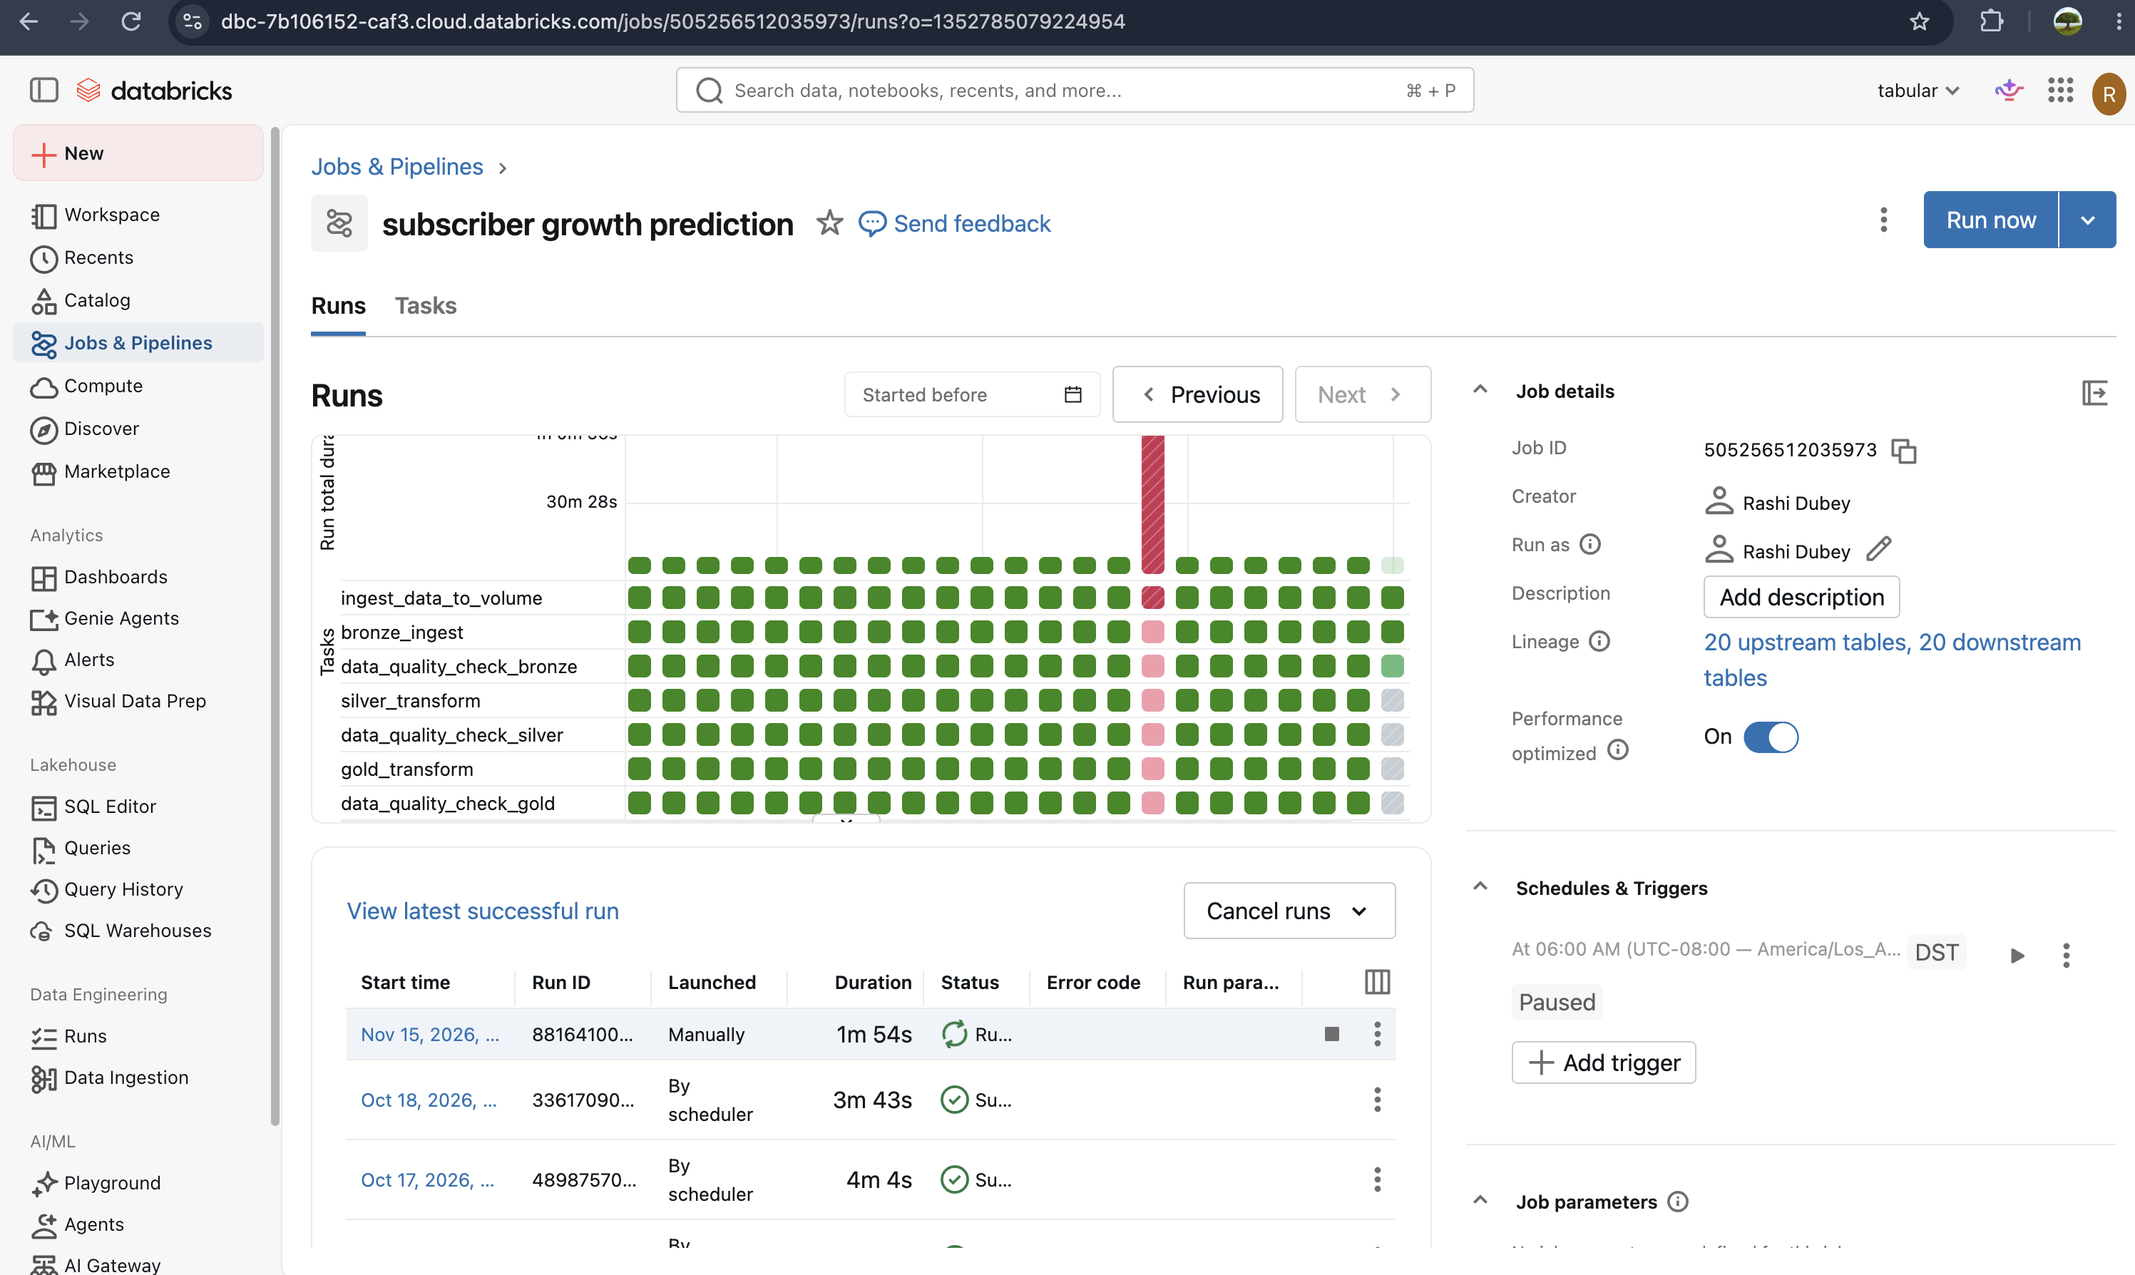
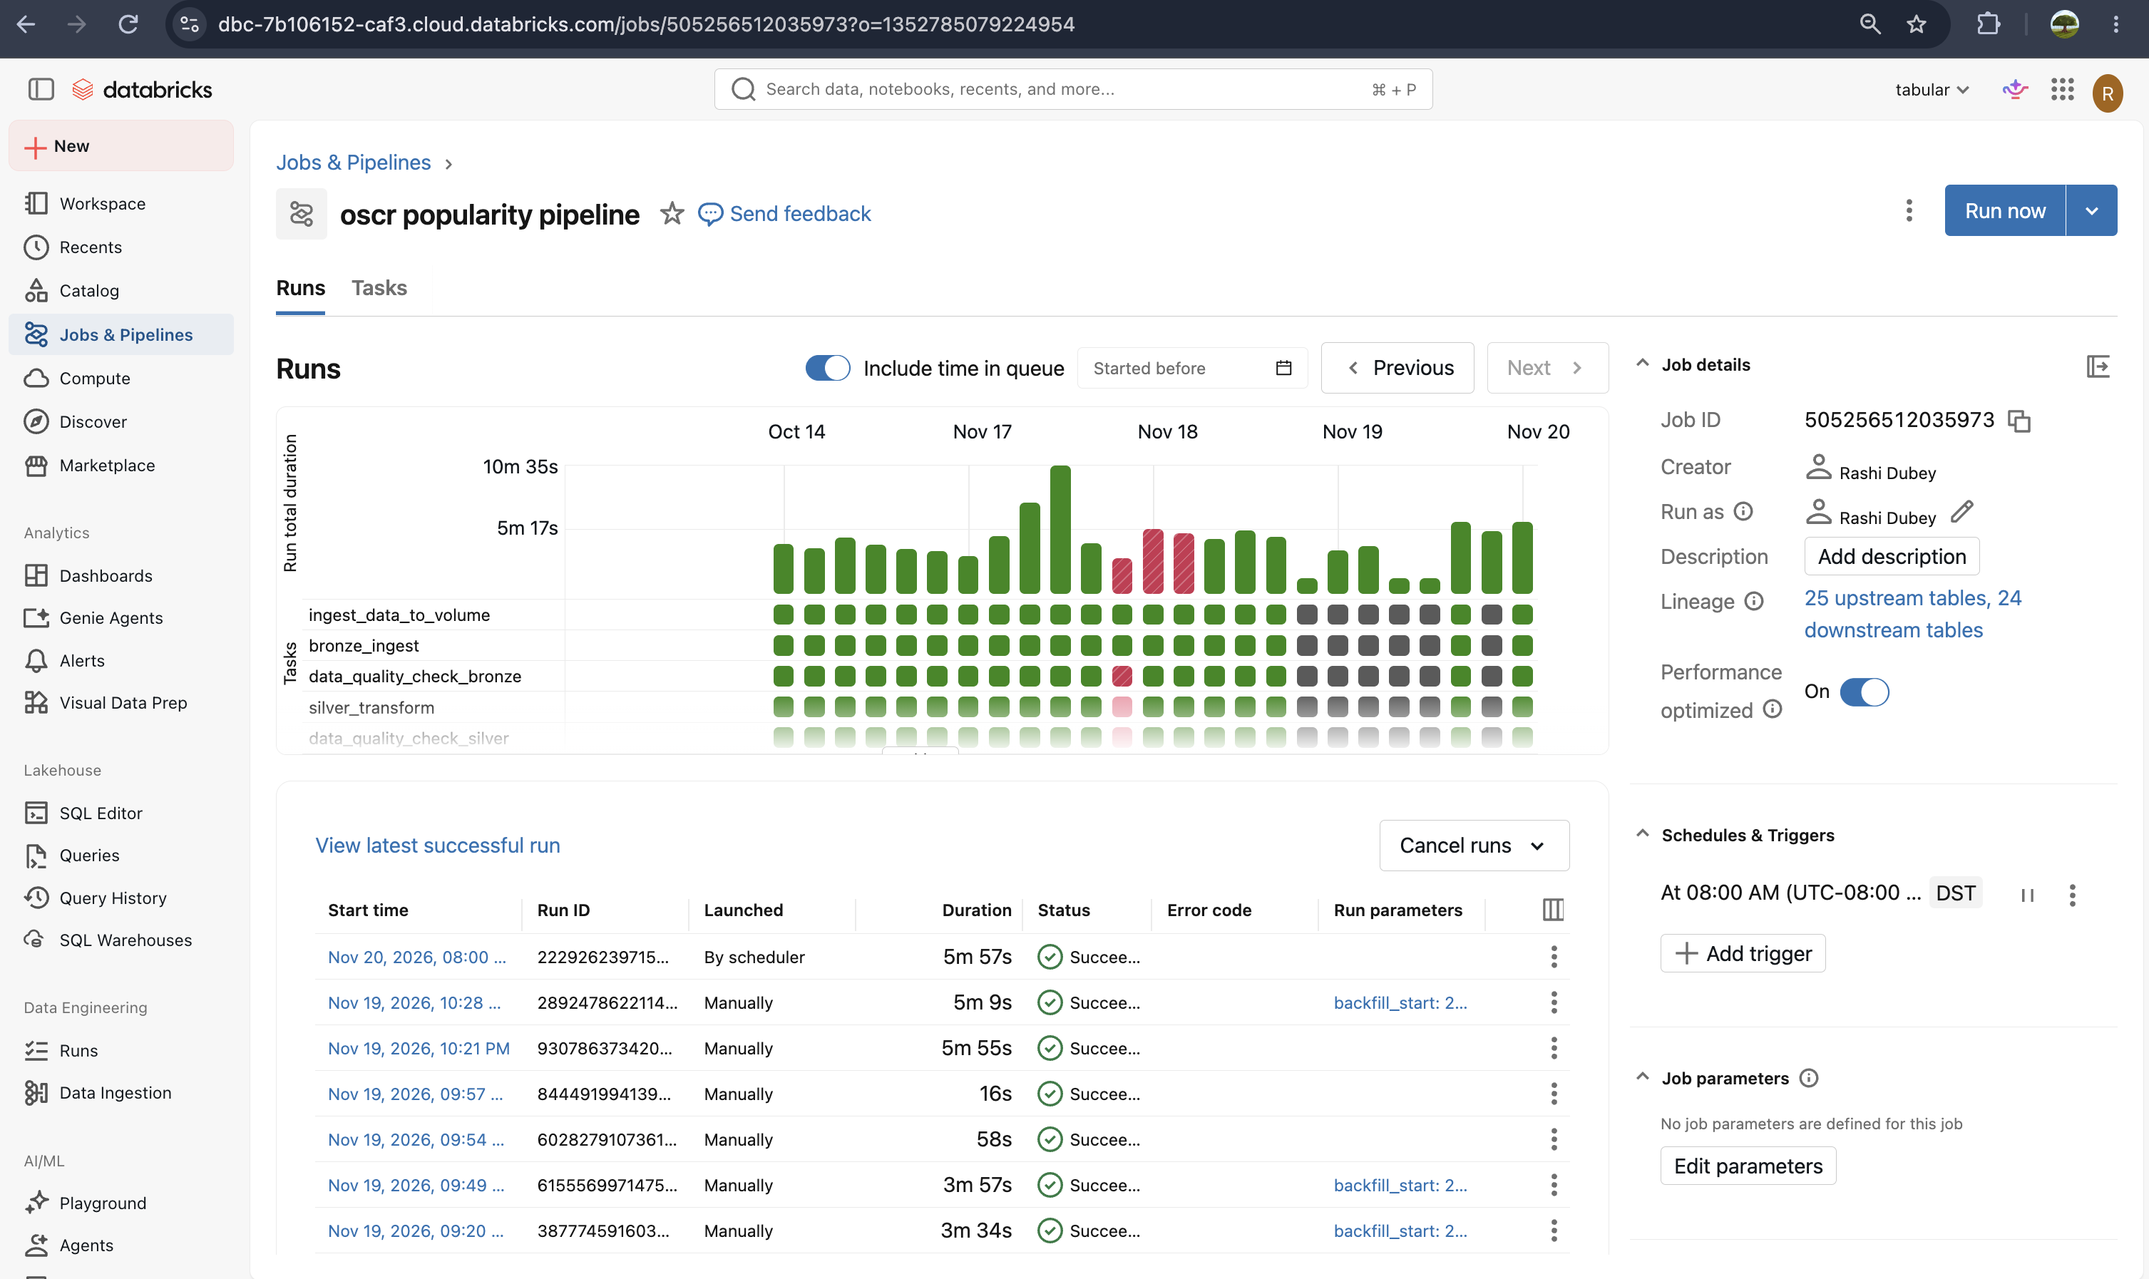
Update README, diagrams and screenshots

diff --git a/README.md b/README.md
@@ -1,134 +1,189 @@
-# OSCR (Online Streaming Content Radar): Streaming Content Popularity & Sentiment Pipeline
+# OSCR (Online Streaming Content Radar)
 
-## what am I trying to achieve
+A daily pipeline that tracks Netflix and Disney+ popularity, makes a rise / hold / fall call for each brand, and grades its own calls a week later.
 
-Track Netflix and Disney+ popularity from three angles that don't normally
-talk to each other: app-store rank, Wall Street sentiment on the parent
-stock, and what viewers actually write in reviews and news. The first two
-are numbers you can average into a score. The third is free text, and
-that's where the RAG layer comes in. Data comes from Finnhub, Financial
-Modeling Prep, TMDB, and the Apple App Store RSS feed. The output is a near-term popularity-direction call per brand (rise / hold / fall): the numbers give the direction, and the RAG layer gives a grounded why from reviews and news.
+Example: Netflix's app rank has slid for a week, analysts are cooling, and reviewers complain about a new season. The agent calls `fall` and cites those reviews. Seven days later the scorecard checks whether the rank really fell.
 
-Runs entirely on Databricks: Unity Catalog, Delta Lake, Mosaic AI Vector
-Search. No Docker, nothing to run locally end-to-end.
+**Who it's for:** a streaming analyst deciding which brand's audience attention is shifting and where to dig deeper. It is not a trading signal.
+
+Runs entirely on Databricks (Unity Catalog, Delta Lake, Mosaic AI Vector Search). Nothing to run locally.
+
+## Data sources and what each adds
+
+| Source | Kind | Lands in | Answers |
+|---|---|---|---|
+| Apple App Store RSS (US) | number | `app_rank_history`, `brand_popularity` | What changed: the rank we predict and grade |
+| Finnhub analyst recommendations | number | `symbol_analyst_sentiment` | What analysts think |
+| FMP analyst estimates | number | `symbol_forward_estimates` | Forward revenue and EPS expectations |
+| Finnhub company news | text | `rag_text_corpus` | Why: market and news context |
+| TMDB show reviews | text | `rag_text_corpus` | Why: how viewers react to shows |
+
+Numbers say what moved. Text, retrieved with RAG, says why.
 
 ## Architecture
 
-```
-  STRUCTURED SIDE                           UNSTRUCTURED SIDE
-  Finnhub, FMP, App Store RSS               TMDB reviews, Finnhub news
-              |                                          |
-              v                                          v
- +--------------------------+               +--------------------------+
- | BRONZE                   |               | BRONZE                   |
- | raw, append-only,        |               | raw review/news text,    |
- | one table per endpoint   |               | untouched                |
- +------------+-------------+               +------------+-------------+
-              |                                          |
-              v                                          v
- +--------------------------+               +--------------------------+
- | SILVER                   |               | SILVER                   |
- | dedupe, alias-match,     |               | dedupe, typed, cleaned   |
- | MERGE (current state)    |               | pass-through             |
- +------------+-------------+               +------------+-------------+
-              |                                          |
-              v                                          v
- +--------------------------+               +--------------------------+
- | GOLD                     |               | GOLD: rag_text_corpus    |
- | symbol_analyst_sentiment |               | (doc_id, text_content)   |
- | symbol_forward_estimates |               +------------+-------------+
- | app_rankings_by_brand    |                            |
- | app_rank_history         |                            v
- | show_engagement          |               +--------------------------+
- +------------+-------------+               | VECTOR SEARCH INDEX      |
-              |                             | rag_text_corpus_index    |
-              v                             | hybrid, Triggered sync   |
- +--------------------------+               +------------+-------------+
- | NUMERIC SIGNALS          |                            |
- | rank, sentiment score,   |                            v
- | growth, ratings          |               +--------------------------+
- +------------+-------------+               | AGENT / LLM              |
-              |                             | hybrid search -> prompt  |
-              |                             | -> grounded answer       |
-              |                             +------------+-------------+
-              +------------------------------------------+
-                                   |
-                                   v
-           one popularity picture: what changed (numbers)
-           and why (text)
+```mermaid
+flowchart LR
+  subgraph SRC["Sources"]
+    A1["App Store RSS"]
+    A2["Finnhub recs"]
+    A3["FMP estimates"]
+    A4["TMDB reviews"]
+    A5["Finnhub news"]
+  end
+  SRC --> B["Bronze: raw + _fetched_at"]
+  B --> S["Silver: deduped, typed"]
+  S --> GN["Gold numbers: brand_popularity, sentiment, estimates"]
+  S --> GT["Gold text: rag_text_corpus"]
+  GT --> V["Vector Search index"]
+  GN --> AG["Agent (05)"]
+  V --> AG
+  AG --> P[("predictions")]
+  P --> SC["Scorecard (06)"]
+  GN --> SC
 ```
 
-![OSCR architecture](docs/architecture.png)
+Gold tables and how they connect:
+
+```mermaid
+erDiagram
+  brand_popularity {
+    string brand PK
+    date d PK
+    double popularity
+  }
+  move_cutoffs {
+    int horizon_days
+    double fall_below
+    double rise_above
+  }
+  predictions {
+    string symbol PK
+    date prediction_date PK
+    string source PK
+    string variant PK
+    string call
+    string confidence
+    array retrieved_doc_ids
+  }
+  prediction_skips {
+    string symbol
+    date prediction_date
+    string variant
+  }
+  prediction_scorecard {
+    string brand
+    date prediction_date
+    string call
+    string actual_move
+    int hit
+  }
+  rag_text_corpus {
+    string doc_id PK
+    string text_content
+    date published_date
+  }
+  brand_popularity ||--o{ prediction_scorecard : "outcome 7 days later"
+  move_cutoffs ||--o{ prediction_scorecard : "defines rise/hold/fall"
+  predictions ||--|| prediction_scorecard : "one row per call"
+  predictions ||--o{ prediction_skips : "unparseable replies"
+  predictions }o--o{ rag_text_corpus : "retrieved_doc_ids"
+```
 
 ## Orchestration
 
-The whole medallion pipeline runs as a scheduled Databricks Workflow
-(`oscr popularity pipeline`), with a data-quality check wired in as a
-gate after every layer, so a bad batch stops the run before it reaches the
-next stage:
+One Databricks Workflow (`oscr popularity pipeline`) runs daily at 08:00 America/Los_Angeles. A data-quality gate sits after every layer, so a bad batch stops before the next stage.
 
-`ingest -> bronze -> DQ(bronze) -> silver -> DQ(silver) -> gold -> DQ(gold)`
+```
+ingest -> bronze -> DQ -> silver -> DQ -> gold -> DQ -> index sync -> agent -> scorecard
+```
 
-It is scheduled to run daily, and every layer is idempotent, so a rerun reconciles the data instead of duplicating it. The RAG corpus, vector index, and prediction agent all run end to end (the agent writes rise/hold/fall popularity calls to `predictions`). The schedule is currently paused; folding the agent in as the final task, so a fresh prediction lands on every run, is the remaining step.
-
-![Workflow DAG](screenshots/workflow_dag.png)
+The gates check row counts, nulls, duplicate keys, empty tables, and freshness: the newest `_fetched_at` in every source must be under 36 hours old. The fetch step fails the run if a required API call fails, and a failed run sends an email.
 
 ![Workflow run history](screenshots/workflow_run_history.png)
 
+Run history. Red cells are failed runs, grey cells are tasks that did not run (for example, runs started by hand for a single task).
+
 ## Idempotency
 
-Every layer is safe to rerun, and each uses the mechanism that fits it
-rather than one blanket rule.
+Every layer is safe to rerun, and each uses the strategy that fits it.
 
-- Bronze lands raw data with an `_ingested_at` timestamp. The recommendation
-  and estimate feeds append; the news, review, registry and provider feeds
-  do a full refresh (drop and reload), because the source always returns the
-  full current set. Nothing downstream depends on bronze being deduped.
-- Silver is where current state is enforced: it keeps the latest row per key
-  by `_ingested_at` (a window plus `row_number` filter) and overwrites, so it
-  reflects current state no matter how many times bronze ran. The App Store
-  table uses a `MERGE` upsert instead, keyed on app id and storefront.
-- Gold overwrites its aggregate tables. The one time-series table,
-  `app_rank_history`, deletes the day being written before appending it, so
-  backfilling a day twice never doubles it.
+| Layer | Rerun strategy |
+|---|---|
+| Bronze | Recommendations and estimates append. News, reviews, registry, providers and App Store do a full refresh, but an empty load keeps the old table and fails the task. |
+| Silver | Latest row per key, overwrite. App Store uses MERGE on app id and storefront. |
+| Gold | Aggregates overwrite. `app_rank_history` deletes the day, then inserts. |
+| Predictions | Delete then insert on (symbol, date, source, variant). |
 
-Rerunning the same window and watching the row counts hold steady is the
-practical test of all of this, and they do.
+## The agent
 
-## why RAG is here
+[`05_agent_predictions.py`](src/05_agent_predictions.py) reads the numeric signals, retrieves the most relevant reviews and news, and asks an LLM for a rise / hold / fall call on each brand's 7-day App Store popularity change. The call is written to `predictions`, a real state change in the pipeline.
 
-The numeric gold tables already answer "what changed": rank moved, analyst
-sentiment shifted, revenue grew. RAG exists purely to answer "why," which
-lives in review and news text that can't be averaged into a score.
-`rag_text_corpus` holds that text, a Vector Search index embeds it, and at
-question time hybrid search pulls the most relevant chunks for an LLM to
-read and answer from, grounded in real reviews instead of a guess. It's
-additive: if the index or serving endpoint goes down, the rest of the
-pipeline doesn't notice.
+- Popularity is `101 - rank` in the US App Store, flagship app only. India and Germany are excluded because they drop in and out of the feed.
+- "Hold" is defined once, in `move_cutoffs`: fall below -8.33, rise above +5.0. These are the terciles of 84 pooled 7-day changes (Aug 29 to Oct 11), frozen before any scoring. The agent prompt and the scorecard both read this table.
+- Every input is limited to rows dated on or before the prediction date.
+- Live runs write two variants, with RAG and without, so the effect of the text can be measured.
 
-One thing worth knowing if you build on this: retrieval ranks results, it
-doesn't filter for relevance. Asking for 3 results always returns 3, even
-if only one is actually on-topic. The score gap between them matters more
-than the row count.
+![Latest live calls](screenshots/dashboard_rag_predictions.png)
 
-Everything above is RAG that answers questions. [`04_setup_vector_index.py`](src/04_setup_vector_index.py) and [`05_agent_predictions.py`](src/05_agent_predictions.py) are the agent that acts on them. It does not forecast a number it cannot verify. Instead it reads the structured popularity and sentiment signals, retrieves the most relevant reviews and news, and produces a rise / hold / fall call on each brand's near-term app-store popularity, with a grounded explanation. That call is written to the `predictions` table, a real state change the rest of the pipeline does not have. Because popularity is something the pipeline actually measures (`app_rank_history`), the call can be checked against what happens next. Both notebooks run end to end against the live workspace: the vector index is built and synced on `oscr-rag-endpoint`, and each call is grounded in the retrieved documents plus the structured gold signals. See `docs/predictions_sample.txt` for sample output. The check itself is in [`06_prediction_scorecard.sql`](src/06_prediction_scorecard.sql): it scores each call against the brand's popularity about seven days later and reports the agent's hit rate against a naive "always hold" baseline. It reads zero until a week of daily snapshots has accrued, then fills on its own as the schedule runs. The agent grades itself, and beating the baseline is the bar.
+## Does it work?
 
-## what I learned
+[`06_prediction_scorecard.sql`](src/06_prediction_scorecard.sql) scores each call against what happened 7 days later and compares it with simple baselines. Backfill test: 84 daily brand-dates, temperature 0, no RAG (see limits below).
 
-- Idempotency has to be designed per layer. Append, MERGE, and
-  delete-then-insert are three different answers to "what if this reruns,"
-  and each layer needs the one that fits it.
-- RAG is for text you can't turn into a number. It doesn't replace the rest
-  of the pipeline, and most of the real signal here still comes from
-  structured data.
-- A Databricks workspace and a git repo drift the moment you stop syncing
-  them. Comparing the two turned up a stray notebook in the workspace
-  writing bronze with `overwrite` instead of `append`, a quiet bug that only
-  showed up when I diffed the two copies.
-- Search results come back ranked, not filtered. Ask for 3 and you get 3,
-  even if only one is relevant, so I check the score gap instead of
-  trusting everything that comes back.
+| Model | n | Hit rate | 95% interval |
+|---|---|---|---|
+| Agent, Llama 3.1 8B | 84 | 32.1% | 23.1 to 42.7 |
+| Agent, Llama 4 Maverick | 84 | 13.1% | 7.5 to 21.9 |
+| Always hold | 84 | 34.5% | 25.2 to 45.2 |
+| Always rise | 84 | 32.1% | 23.1 to 42.7 |
+| Persistence (repeat last week's move) | 70 | 21.4% | 13.4 to 32.4 |
+| Random | 84 | 25.0% | 17.0 to 35.2 |
 
-<img width="1507" height="556" alt="Screenshot 2026-09-06 at 4 26 38 PM" src="screenshots/screenshot_1.png" />
-<img width="3017" height="732" alt="image" src="screenshots/screenshot_2.png" />
-<img width="3012" height="1647" alt="image" src="screenshots/screenshot_3.png" />
+Honest reading: no model beats the baselines, and the intervals all overlap, so none of these differences is significant.
+
+- The 8B model answered "rise" 84 times out of 84, so it scores exactly like always-rise.
+- The larger model, chosen before looking at results and run once, made mixed calls and scored worse.
+- Persistence also scored below chance. That hints that rank moves partly reverse, so models that extrapolate the trend lose. This is a hypothesis for the live data, not a finding. I did not tune anything on this test set.
+- Live predictions started Nov 20. The first can be scored on Nov 27.
+
+## Dashboard
+
+![App Store popularity](screenshots/dashboard_popularity.png)
+
+The straight segment from Oct 18 to Nov 15 is a gap: the schedule was paused and no snapshots were taken.
+
+![Analyst sentiment](screenshots/dashboard_sentiment.png)
+
+![Expected revenue growth](screenshots/dashboard_revenue_growth.png)
+
+![Content engagement](screenshots/dashboard_content_engagement.png)
+
+TMDB review counts per show. The text signal is thin: 1 to 8 reviews per show.
+
+## What went wrong, and what I fixed
+
+- **Look-ahead leak.** The first backtest retrieved news published after the prediction date (88 of 120 retrieved docs, affecting 22 of 24 calls). I added as-of filters to every input and threw that result away.
+- **Silent outage.** From Nov 18 the daily fetch got 401 from Finnhub, FMP and TMDB because the key file had vanished, yet every run showed green and one fetch overwrote a good file with an empty one. Fixes: keys now live in a Databricks secret scope, files are replaced only on a good response, the run fails if a required call fails, bronze keeps the old table if a load is empty, and a freshness check reads the fetch timestamp.
+- **Duplicate predictions.** Reruns appended twice. The write is now delete then insert on the full key.
+
+## What I learned
+
+- A green run is not fresh data. Check when data was fetched, not when it was loaded.
+- Point-in-time correctness: every input must be dated on or before the prediction date.
+- Beat the baselines first. Always-hold, always-rise, persistence and random put a hit rate in context.
+- A small LLM can collapse to one answer, and a bigger one is not automatically better.
+- Idempotency is designed per layer: append, MERGE and delete-then-insert answer different questions.
+- RAG is for text you can't turn into a number. Retrieval ranks results, it does not filter for relevance.
+
+## Limits
+
+- The backfill uses numeric signals only. News before Nov 10 was not kept and FMP estimates have no publish date, so the effect of RAG can only be measured on live data, which is a small sample.
+- 84 overlapping windows give wide intervals.
+- No snapshots exist from Oct 18 to Nov 15.
+- Only the US storefront and the two flagship apps are tracked.
+
+## Run it
+
+- Keys live in the Databricks secret scope `oscr` (`FINNHUB_API_KEY`, `FMP_API_KEY`, `TMDB_API_KEY`). A local `.env` is only for running the fetch outside Databricks (see `.env.example`).
+- The job definition is in [`docs/workflow_job.json`](docs/workflow_job.json), with the user and email replaced by placeholders.
+- Notebooks run in order from `src/`: 00 fetch, 01 bronze, 02 silver, 03 gold, 04 vector index, 05 agent, 06 scorecard. Bronze schemas are in [`docs_schema.md`](docs_schema.md) (written before the `_fetched_at` column was added).
